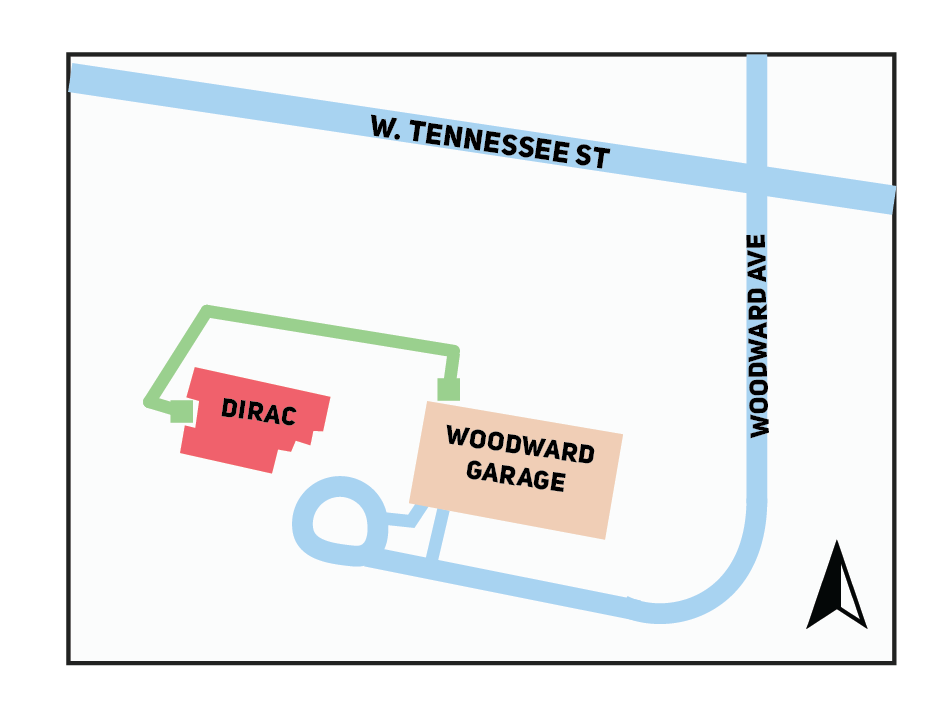
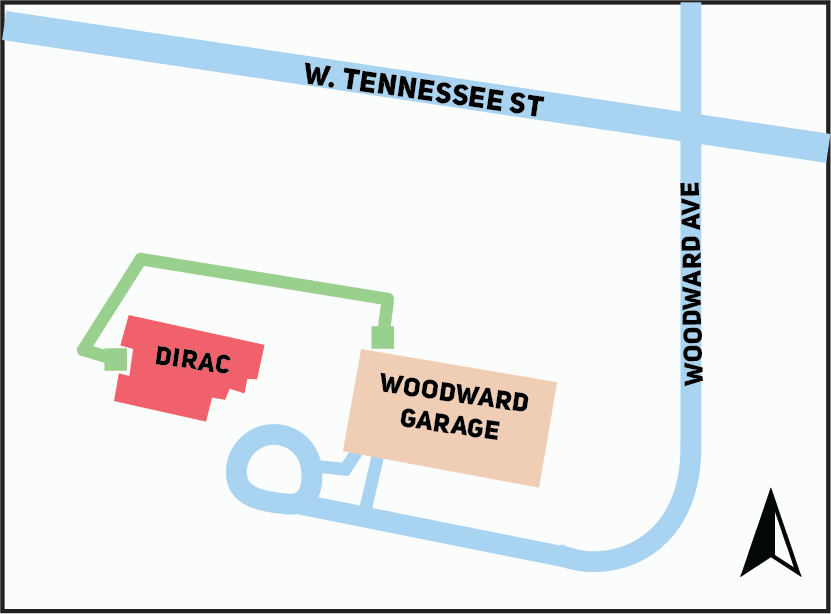
text size bigger, map crop, different contact info

Changed region(s): [[0.0, 0.0, 1.0, 1.0]]

diff --git a/public/static/assets/css/custom.css b/public/static/assets/css/custom.css
@@ -1232,3 +1232,7 @@ table#helpreqs td {
 	margin-top: 200px;
 	margin-bottom: 100px;
 }
+
+.eventinfop {
+	font-size: 22px;
+}
